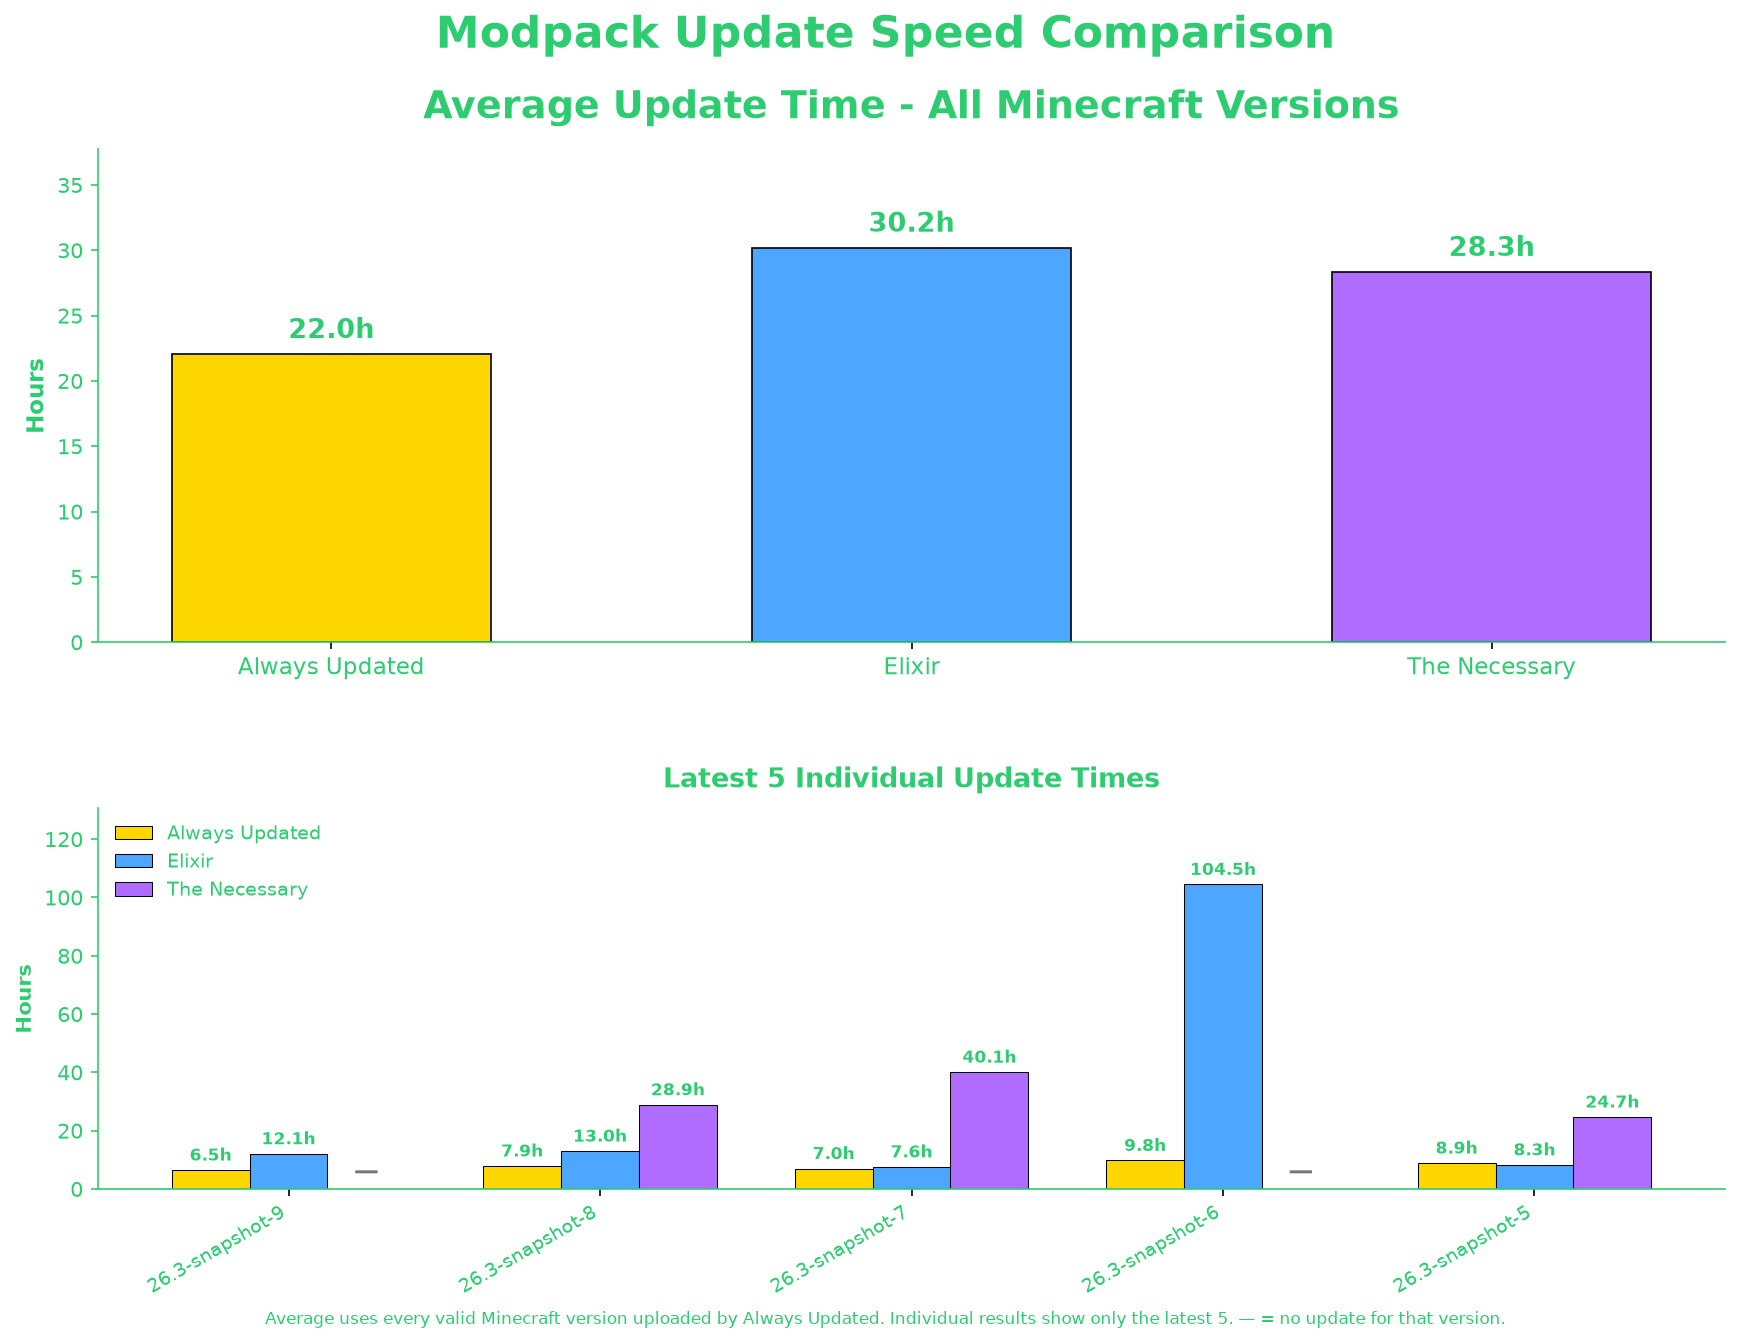
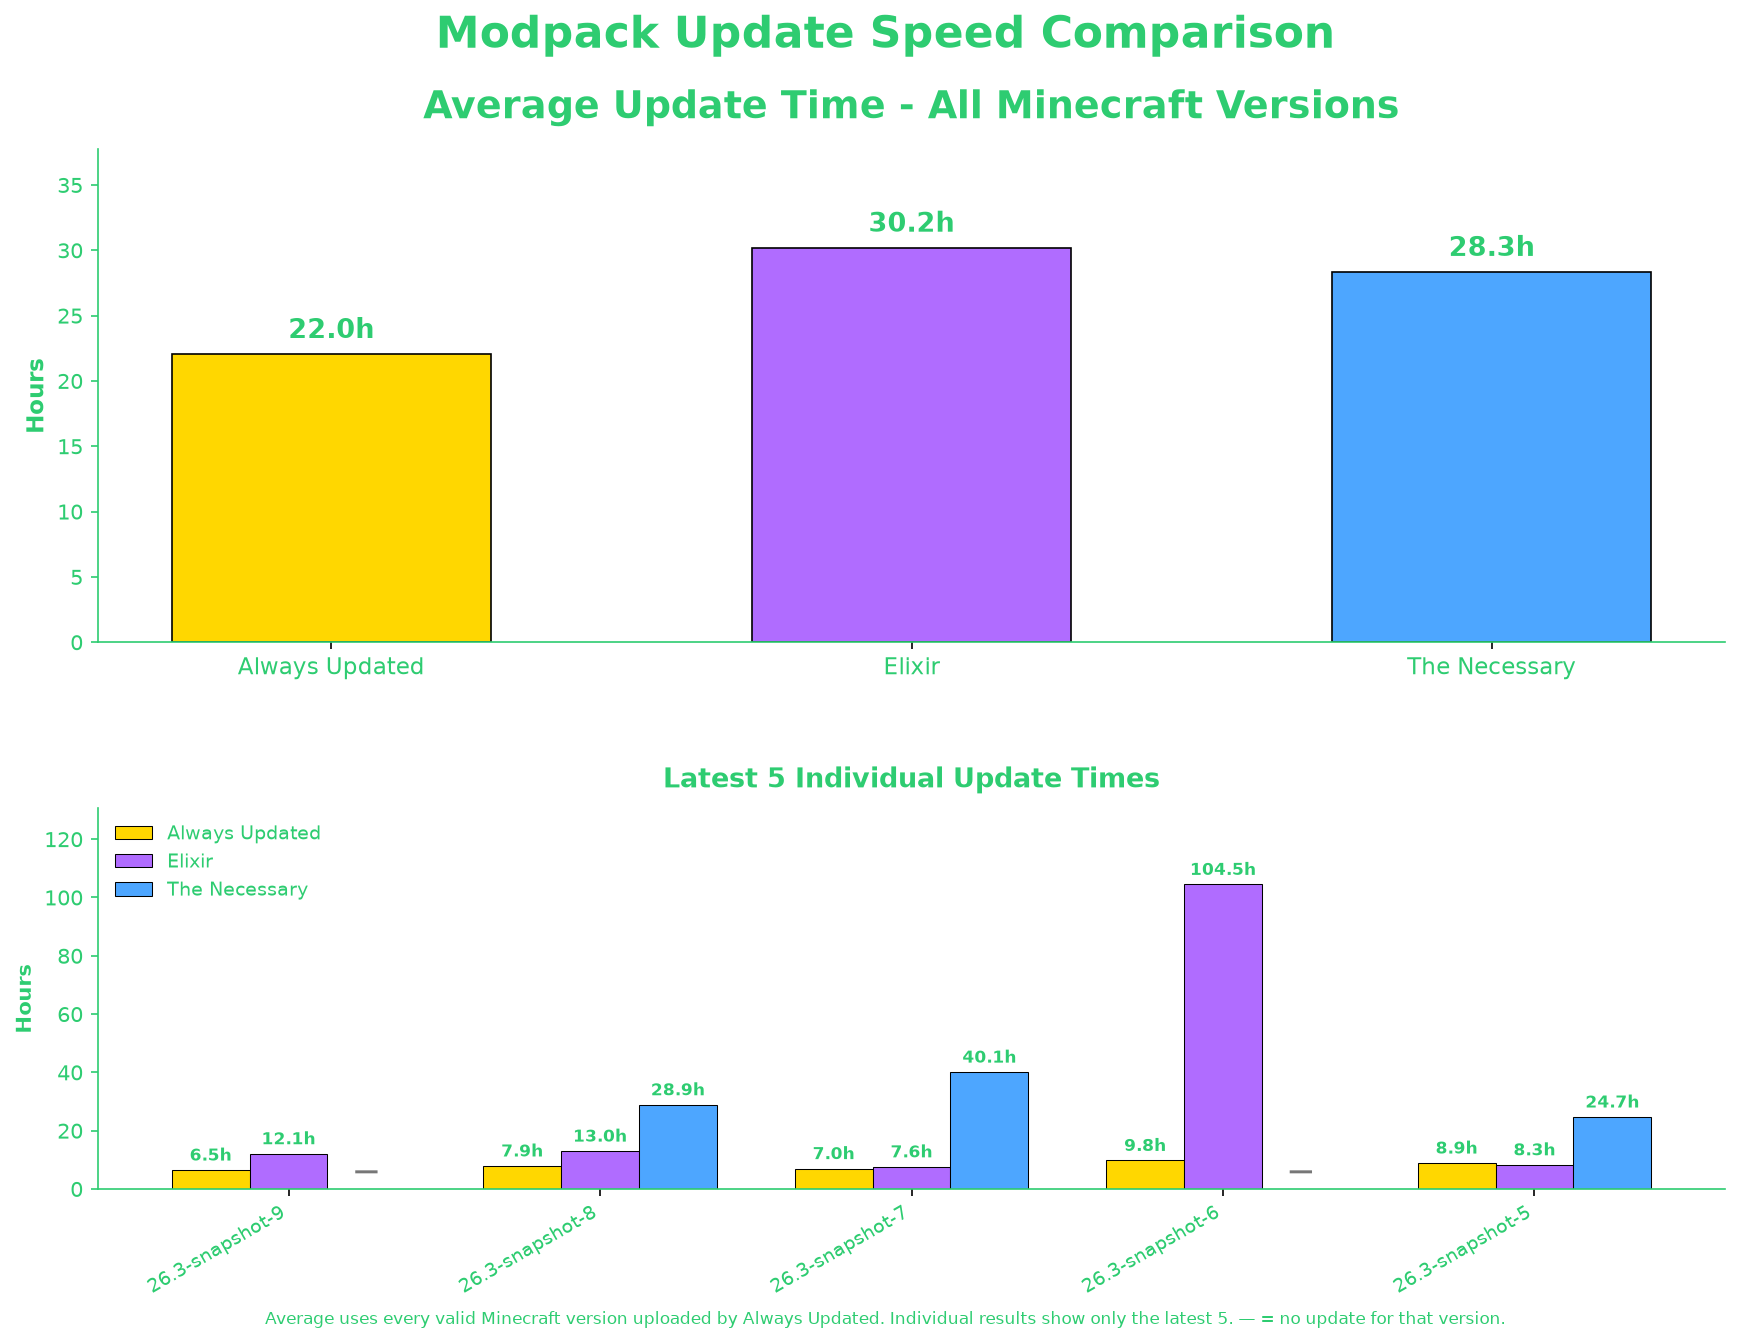
graph

diff --git a/generate_graph.py b/generate_graph.py
@@ -536,8 +536,8 @@ def main():
 
     COLORS = {
         "Always Updated": "#FFD700",
-        "Wmfgn1eN": "#4DA6FF",
-        "Gvp9bbxY": "#B06CFF",
+        "Wmfgn1eN": "#B06CFF",
+        "Gvp9bbxY": "#4DA6FF",
     }
 
     # =====================================================
